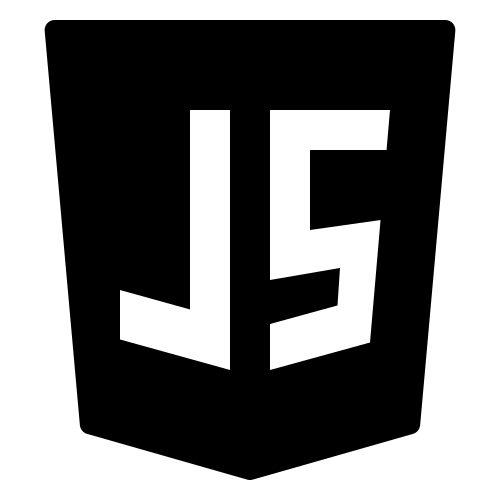
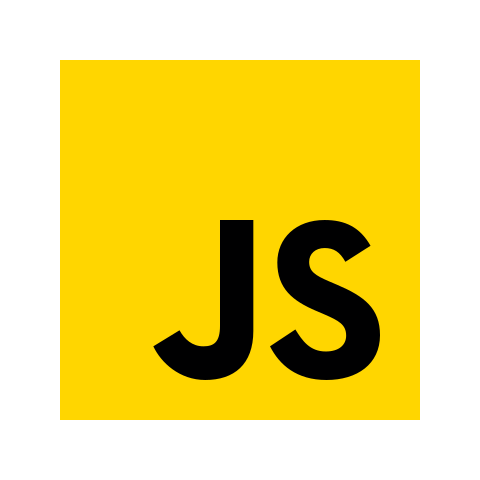
skills component finished

diff --git a/src/components/skills/Skills.jsx b/src/components/skills/Skills.jsx
@@ -1,9 +1,10 @@
-import react from "../../assets/images/reactt.svg";
+import react from "../../assets/images/react.svg";
 import html from "../../assets/images/html5.png";
 import css from "../../assets/images/css3.png";
-import js from "../../assets/images/jss.png";
+import js from "../../assets/images/js.png";
 import seo from "../../assets/images/seo.png";
 import github from "../../assets/images/github.png";
+import wip from "../../assets/images/wip.png";
 
 import "./../../../index.css";
 import "./skills.css";
@@ -22,30 +23,36 @@ export default function Skills() {
             <h1 className="marquee-skills-title">MY KEY COMPETENCES</h1>
           </div>
         </div>
-        <section className="skills-section">
-          <div className="skills-div">
-            <img className="skills-img" src={react} alt="arrow down" />
-            <p className="skills-text">REACT</p>
-          </div>
-          <div className="skills-div">
-            <img className="skills-img" src={js} alt="arrow down" />
-            <p className="skills-text">JS</p>
-          </div>
-          <div className="skills-div">
-            <img className="skills-img" src={seo} alt="arrow down" />
-            <p className="skills-text">SEO</p>
-          </div>
-          <div className="skills-div">
-            <img className="skills-img" src={html} alt="arrow down" />
-            <p className="skills-text">HTML</p>
-          </div>
-          <div className="skills-div">
-            <img className="skills-img" src={css} alt="arrow down" />
-            <p className="skills-text">CSS</p>
-          </div>
-          <div className="skills-div">
-            <img className="skills-img" src={github} alt="arrow down" />
-            <p className="skills-text">GITHUB</p>
+        <section className="skills-section-container">
+          <div className="skills-section-wrapper">
+            <div className="skills-div">
+              <img className="skills-img" src={react} alt="arrow down" />
+              <p className="skills-text">REACT</p>
+            </div>
+            <div className="skills-div">
+              <img className="skills-img" src={js} alt="arrow down" />
+              <p className="skills-text">JS</p>
+            </div>
+            <div className="skills-div">
+              <img className="skills-img" src={html} alt="arrow down" />
+              <p className="skills-text">HTML</p>
+            </div>
+            <div className="skills-div">
+              <img className="skills-img" src={css} alt="arrow down" />
+              <p className="skills-text">CSS</p>
+            </div>
+            <div className="skills-div">
+              <img className="skills-img" src={seo} alt="arrow down" />
+              <p className="skills-text">SEO</p>
+            </div>
+            <div className="skills-div">
+              <img className="skills-img" src={github} alt="arrow down" />
+              <p className="skills-text">GITHUB</p>
+            </div>
+            <div className="skills-div">
+              <img className="skills-img" src={wip} alt="arrow down" />
+              <p className="skills-text">WORK IN PROGRESS</p>
+            </div>
           </div>
         </section>
       </article>

diff --git a/src/components/skills/skills.css b/src/components/skills/skills.css
@@ -1,13 +1,6 @@
 .skills-container {
   background-color: var(--color-black);
-}
-
-.skills-section {
-  display: flex;
-  flex-direction: row;
-  justify-content: space-between;
-  align-items: center;
-  padding: 2rem 4rem;
+  max-width: 100%;
 }
 
 .marquee-skills-container {
@@ -42,12 +35,37 @@
   white-space: nowrap;
 }
 
+.skills-section-container {
+  display: grid;
+  align-items: center;
+}
+
+.skills-section-wrapper {
+  display: grid;
+  grid-template-columns: repeat(auto-fill, minmax(10rem, 1fr));
+  justify-items: center;
+  padding: 2rem 4rem;
+}
+
+@keyframes heartbeat {
+  0% {
+    transform: scale(1);
+  }
+  50% {
+    transform: scale(1.1);
+  }
+  100% {
+    transform: scale(1);
+  }
+}
+
 .skills-div {
   max-width: 4rem;
   display: flex;
   justify-content: center;
   align-items: center;
   flex-direction: column;
+  animation: heartbeat 1s infinite;
 }
 
 .skills-img {
@@ -59,4 +77,10 @@
   color: var(--color-creme);
   text-align: center;
   margin: 1rem;
+}
+
+@media screen and (max-width: 500px) {
+  .skills-section-wrapper {
+    padding: 2rem 2rem;
+  }
 }

diff --git a/src/components/about/About.jsx b/src/components/about/About.jsx
@@ -23,7 +23,7 @@ export default function About() {
                   <p className="word-left bigger">FRONTEND DEVELOPER 👩💻</p>
                   <p className="word-right">Creative Thinker</p>
                   <p className="word-left">PASSION#</p>
-                  <p className="word-right">Self-teach</p>
+                  <p className="word-right">Commitment</p>
                   <p className="word-left bigger">💪 NEW CHALLENGES</p>
                   <p className="word-right">Communicative</p>
                   <p className="word-left">TEAM PLAYER</p>
